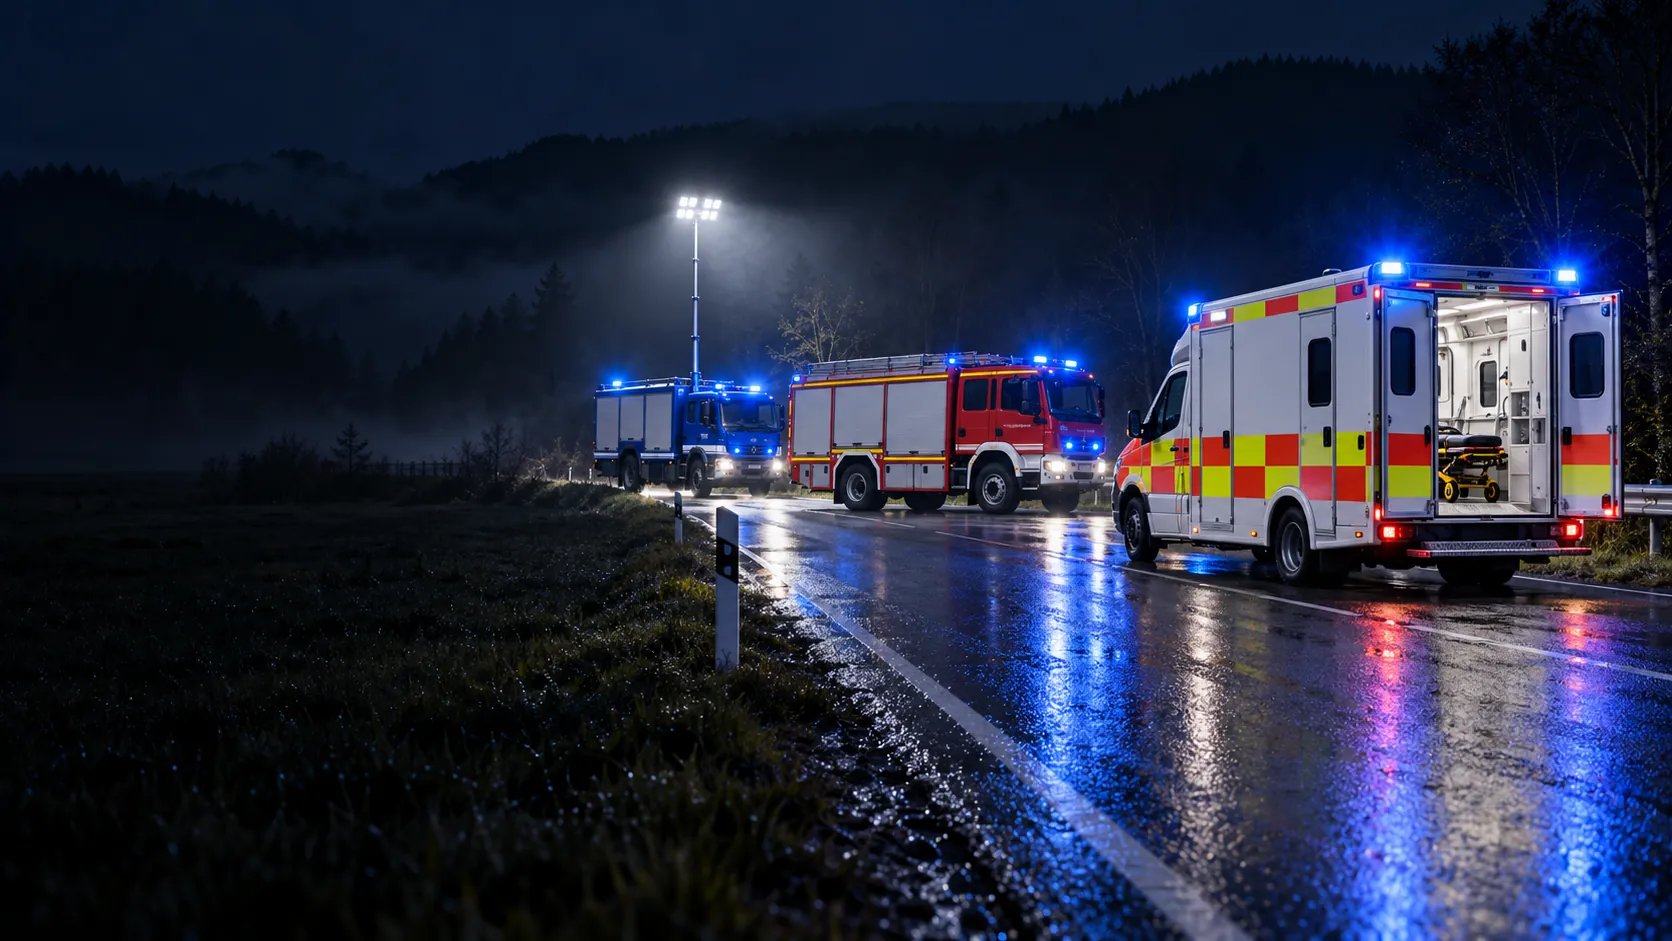
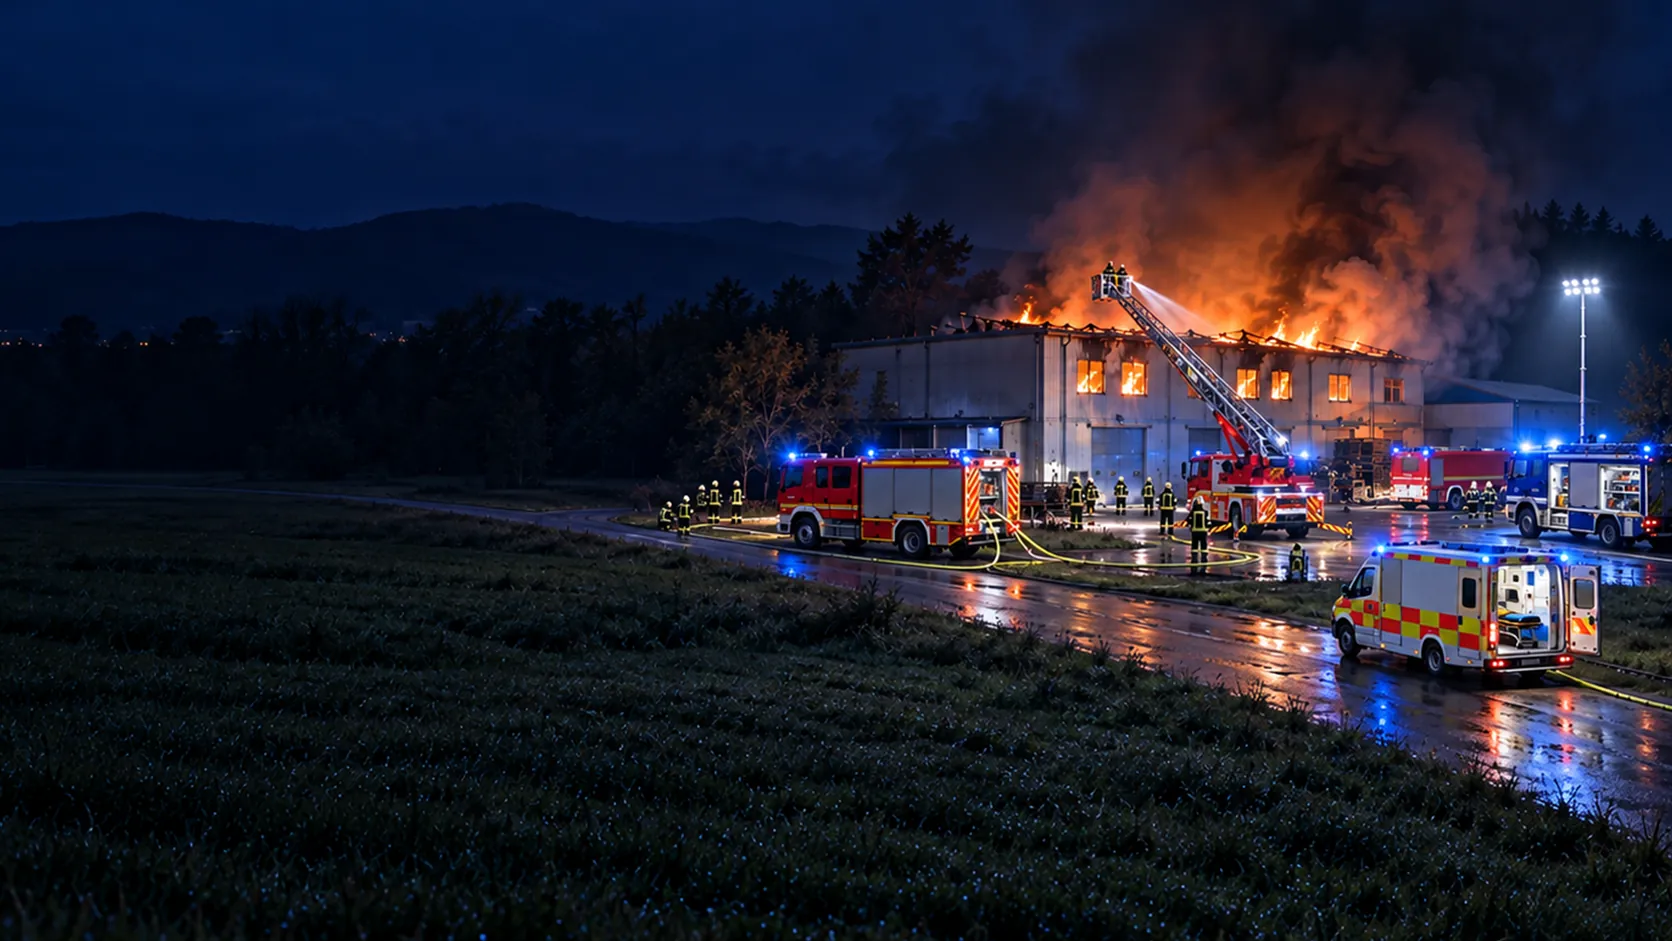
Neues Titelbild: Brandeinsatz

diff --git a/assets/css/style.css b/assets/css/style.css
@@ -103,7 +103,7 @@ ul, ol { margin: 0; padding: 0; list-style: none; }
   linear-gradient(90deg, rgba(var(--shade), 0.96) 0, rgba(var(--shade), 0.9) calc(var(--gutter) + 520px), rgba(var(--shade), 0.5) calc(var(--gutter) + 720px), rgba(var(--shade), 0.05) calc(var(--gutter) + 980px)),
   linear-gradient(0deg, var(--bg) 0%, rgba(var(--shade), 0) 34%),
   linear-gradient(180deg, rgba(var(--shade), 0.7) 0%, rgba(var(--shade), 0) 18%); }
-.hero-glow { position: absolute; inset: 0; z-index: -1; pointer-events: none; opacity: 0; background: radial-gradient(34% 44% at 80% 22%, rgba(61, 123, 255, 0.35), transparent 70%); }
+.hero-glow { position: absolute; inset: 0; z-index: -1; pointer-events: none; opacity: 0; background: radial-gradient(34% 40% at 78% 48%, rgba(61, 123, 255, 0.35), transparent 70%); }
 @media (prefers-reduced-motion: no-preference) {
   .hero-glow { animation: glow 2.6s ease-in-out infinite alternate; }
   @keyframes glow { from { opacity: 0; } to { opacity: 1; } }
@@ -132,7 +132,7 @@ ul, ol { margin: 0; padding: 0; list-style: none; }
   .hero-media { bottom: auto; height: min(80vw, 520px); }
   .hero-media img { object-position: 100% 50%; -webkit-mask-image: linear-gradient(180deg, #000 70%, transparent); mask-image: linear-gradient(180deg, #000 70%, transparent); }
   .hero-shade { background: none; }
-  .hero-glow { bottom: auto; height: min(80vw, 520px); background: radial-gradient(60% 45% at 75% 28%, rgba(61, 123, 255, 0.35), transparent 70%); }
+  .hero-glow { bottom: auto; height: min(80vw, 520px); background: radial-gradient(60% 45% at 72% 62%, rgba(61, 123, 255, 0.35), transparent 70%); }
   .hero .wrap { padding-block: calc(min(80vw, 520px) + 4px) 40px; }
   .actions .btn { flex: 1 1 auto; }
 }
